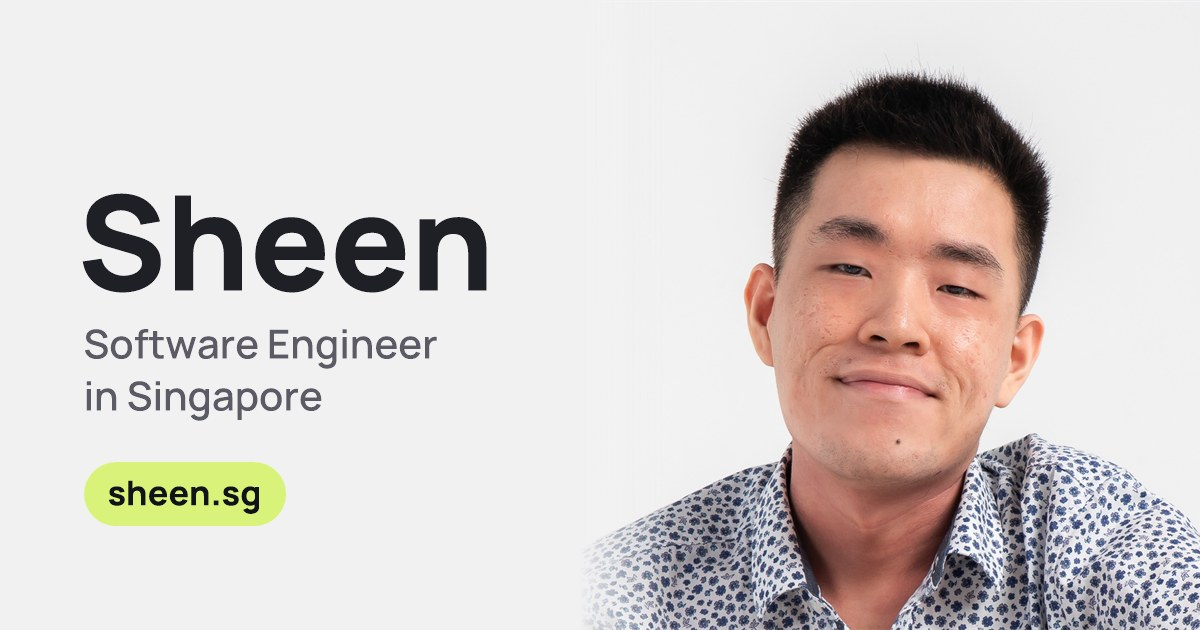
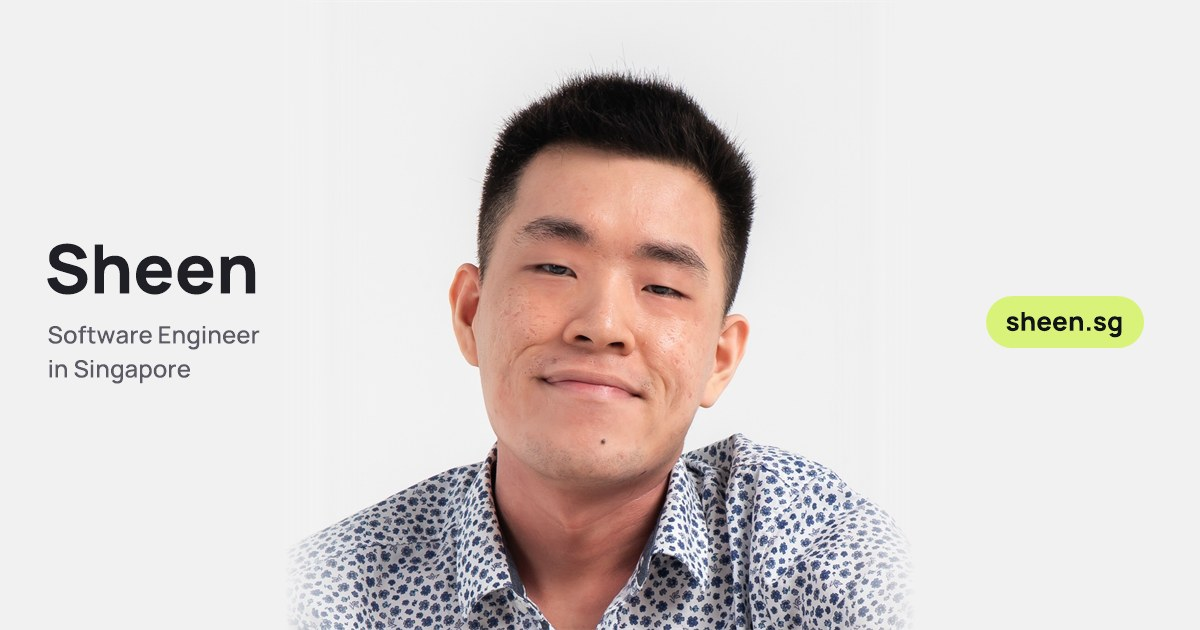
Centre the photo on the share card
WhatsApp and other chat apps crop a square from the middle of the
card for their thumbnail, which cut through the name and the face.
The photo now fills that middle square, with the name and role on the
left and sheen.sg on the right, so the thumbnail is a clean headshot
and the wide card still reads on LinkedIn and X.

diff --git a/index.html b/index.html
@@ -20,7 +20,7 @@ try { const t = localStorage.getItem('theme'); if (t) document.documentElement.d
 <meta property="og:image" content="https://sheen.sg/images/me/share.jpg">
 <meta property="og:image:width" content="1200">
 <meta property="og:image:height" content="630">
-<meta property="og:image:alt" content="Sheen, Software Engineer in Singapore, sheen.sg, beside a photo of Sheen">
+<meta property="og:image:alt" content="A photo of Sheen in the middle, with Sheen, Software Engineer in Singapore on the left and sheen.sg on the right">
 <meta property="profile:first_name" content="Sheen Kerr">
 <meta property="profile:last_name" content="Wong">
 <meta name="twitter:card" content="summary_large_image">
